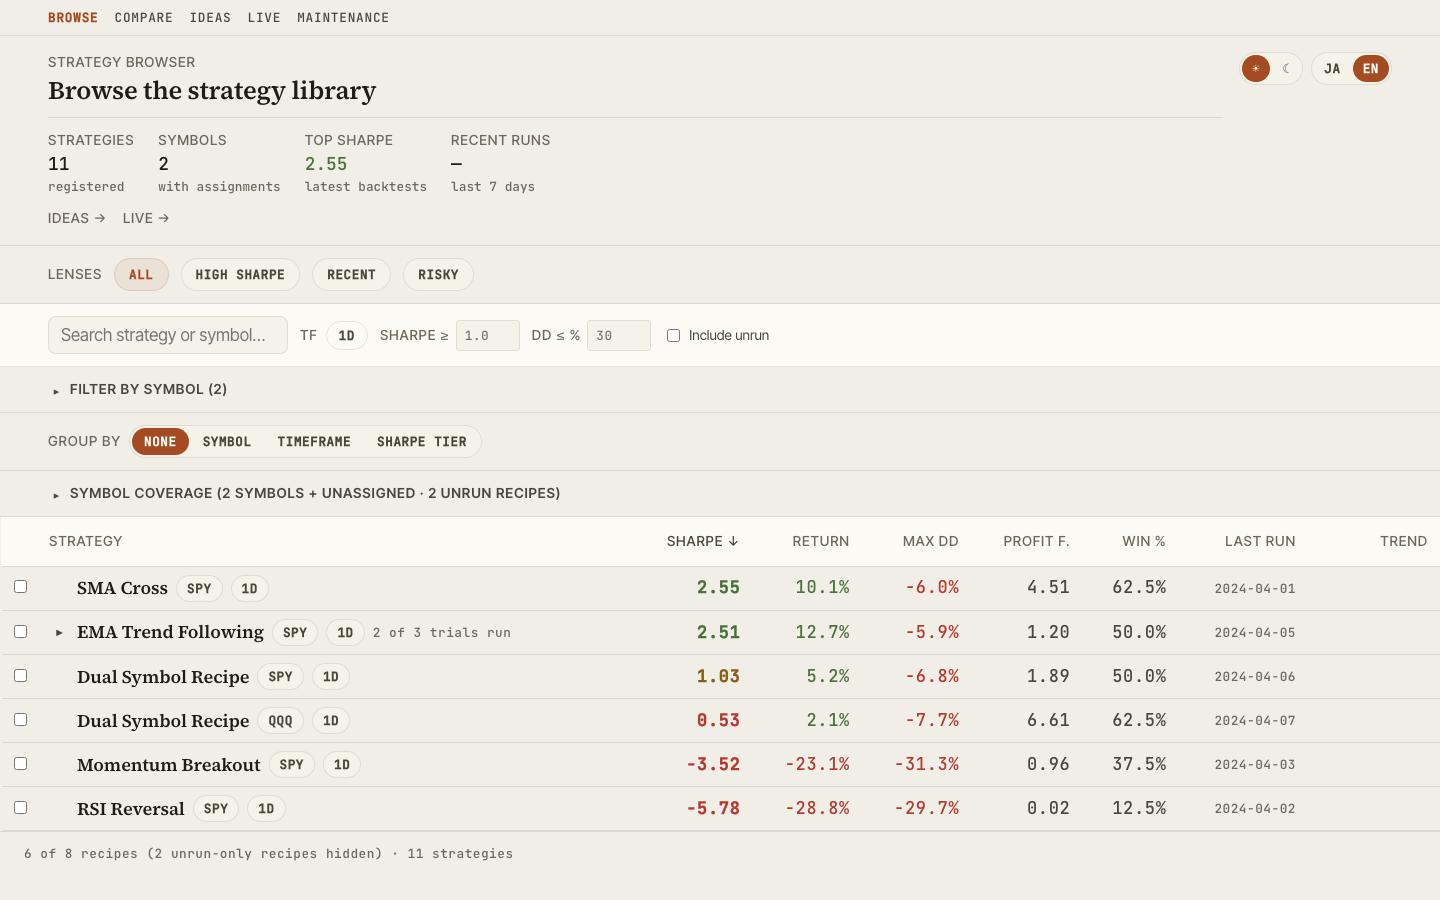
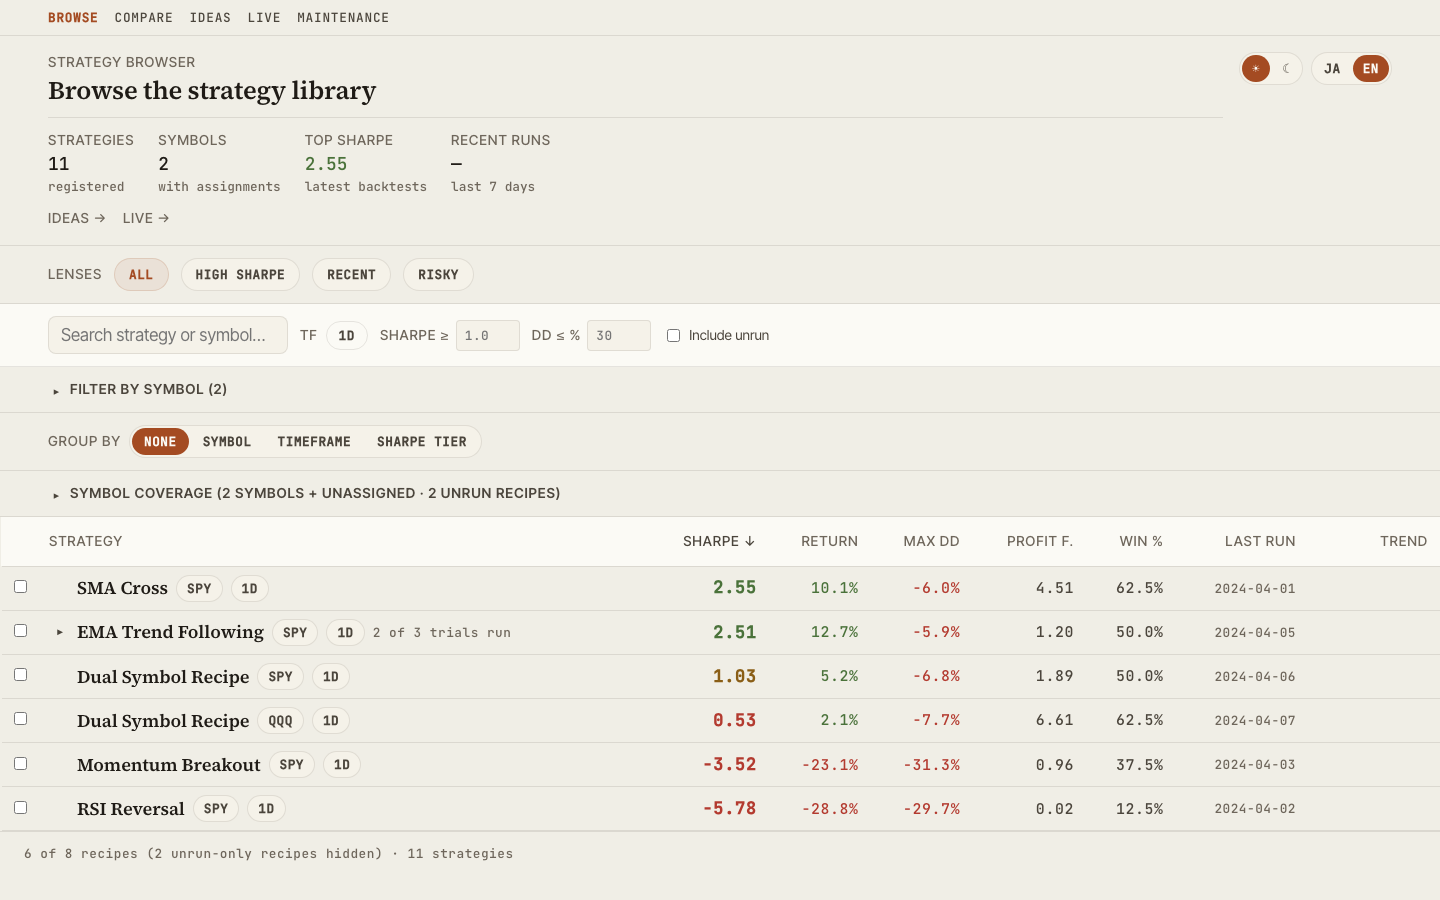
fix(design): 未定義のまま参照されていた CSS 変数 3 種を定義し、再発をテストで防ぐ
未定義の var() はエラーにならず、プロパティが「継承値、無ければ初期値」に
落ちるため、意図しない見た目が動いているように見えてしまう。

- --fs-mono-md: 0.875rem を定義（11 ファイルが参照・issue #342）
  body の 1rem を継承して 17px で描かれており、Sharpe 列に個別指定された
  1rem + bold の強調が効いていなかった。0.8125rem は --fs-mono-sm と 1px 差で
  スケールとして機能せず --fs-caption とも衝突するため 0.875rem を採る。
- --border-strong を定義（5 箇所が参照）
  border-color が初期値の currentColor に落ち、設計上のどのトークンよりも
  濃い線で描かれていた。新しい色を発明せず --border-h と同値にする。
- --text1 → --text（1 箇所の typo）
  color は継承するため偶然同色で描かれており気付けなかった。

あわせて design/__tests__/definedTokens.test.ts を追加し、src 全体の var()
参照がすべて定義済みであることを検証する。未定義を仕込むとファイル名付きで
落ちることを確認済み。ハードコード色を締め出す noHardcodedColors.test.ts と
対になり、こちらは「トークンを参照しているつもりで参照できていない」側を捕まえる。

行高への影響は無し（44px のまま）。実データで確認済みで、これは #334 で
white-space: nowrap により解決済みのため。

Closes #342

diff --git a/frontend/src/design/__tests__/definedTokens.test.ts b/frontend/src/design/__tests__/definedTokens.test.ts
@@ -1,0 +1,93 @@
+import { readdirSync, readFileSync } from 'node:fs'
+import { dirname, resolve } from 'node:path'
+import { fileURLToPath } from 'node:url'
+import { describe, it, expect } from 'vitest'
+
+/**
+ * issue #342: 未定義の CSS カスタムプロパティを参照する回帰を防ぐ。
+ *
+ * 未定義の var() はエラーにならず静かに壊れる。プロパティは「継承値、無ければ
+ * 初期値」に落ちるため、意図しない見た目が「たまたま動いているように見える」。
+ * 実際に 3 種が長期間放置されていた。
+ *
+ *   --fs-mono-md   11 ファイルが参照。body の 1rem を継承して 17px で描画され、
+ *                  Sharpe 列に個別指定された 1rem + bold の強調が効いていなかった
+ *   --border-strong 5 箇所が参照。border-color が初期値の currentColor に落ち、
+ *                  設計上のどのトークンより濃い線で描かれていた
+ *   --text1        --text の typo。color は継承するため偶然同色で、気付けなかった
+ *
+ * ハードコード色を締め出す noHardcodedColors.test.ts と対になる関係で、
+ * こちらは「トークンを参照しているつもりで参照できていない」側を捕まえる。
+ */
+const HERE = dirname(fileURLToPath(import.meta.url))
+const SRC = resolve(HERE, '../..')
+const TOKENS = resolve(SRC, 'design/tokens.css')
+
+/** tokens.css / a11y.css で定義済みのカスタムプロパティ名を集める。 */
+function definedProperties(): Set<string> {
+  const names = new Set<string>()
+  for (const file of [TOKENS, resolve(SRC, 'design/a11y.css')]) {
+    const text = readFileSync(file, 'utf-8')
+    for (const m of text.matchAll(/^\s*(--[\w-]+)\s*:/gm)) names.add(m[1]!)
+  }
+  return names
+}
+
+function listSourceFiles(): string[] {
+  return readdirSync(SRC, { recursive: true, encoding: 'utf-8' })
+    .filter((p) => /\.(ts|tsx|css)$/.test(p))
+    .filter((p) => !p.includes('__tests__'))
+    .map((p) => resolve(SRC, p))
+}
+
+/**
+ * `var(--x)` の参照を拾う。テンプレートリテラルでの動的組み立て
+ * （`var(--cols-${key})`）とコメント中の `var(--cols-*)` のような例示は
+ * 静的に解決できないので、識別子が `${` か `*` で終わるものは対象外にする。
+ */
+function referencedProperties(text: string): string[] {
+  return [...text.matchAll(/var\(\s*(--[\w-]+)([^)]*)\)/g)]
+    .filter((m) => !m[2]!.trimStart().startsWith('$') && !m[2]!.trimStart().startsWith('*'))
+    .map((m) => m[1]!)
+}
+
+describe('CSS カスタムプロパティは必ず定義済み (issue #342)', () => {
+  it('src 全体の var() 参照がすべて tokens.css / a11y.css で定義されている', () => {
+    const defined = definedProperties()
+    const offenders: string[] = []
+    for (const file of listSourceFiles()) {
+      const text = readFileSync(file, 'utf-8')
+      for (const name of referencedProperties(text)) {
+        // var(--x, fallback) のようにフォールバック付きなら未定義でも意図的とみなす
+        if (!defined.has(name)) offenders.push(`${file.replace(SRC, 'src')}: var(${name})`)
+      }
+    }
+    expect(offenders).toEqual([])
+  })
+
+  it('放置されていた 3 種が実際に定義されている', () => {
+    const defined = definedProperties()
+    // 個別に固定しておく。上の網羅テストは「参照が消えた」場合も緑になるため、
+    // トークン自体が失われたことを検知できない。
+    expect(defined.has('--fs-mono-md')).toBe(true)
+    expect(defined.has('--border-strong')).toBe(true)
+    expect(defined.has('--text')).toBe(true)
+  })
+
+  it('--fs-mono-md は --fs-mono-sm より大きく 1rem 未満', () => {
+    // スケールとして機能する位置にあることを固定する。sm と 1px 差では
+    // 区別が付かず、1rem 以上では Sharpe 列の強調（1rem + bold）が死ぬ。
+    const text = readFileSync(TOKENS, 'utf-8')
+    const rem = (name: string): number => {
+      const m = text.match(new RegExp(`^\\s*${name}:\\s*([\\d.]+)rem`, 'm'))
+      if (!m) throw new Error(`${name} が rem 指定で見つからない`)
+      return Number(m[1])
+    }
+    const sm = rem('--fs-mono-sm')
+    const md = rem('--fs-mono-md')
+    expect(md).toBeGreaterThan(sm)
+    expect(md).toBeLessThan(1)
+    // sm との差が 0.0625rem（1px 相当）しかないと実質同じサイズになる
+    expect(md - sm).toBeGreaterThan(0.0625)
+  })
+})

diff --git a/frontend/src/design/tokens.css b/frontend/src/design/tokens.css
@@ -49,6 +49,12 @@
   --fs-body: 1rem;
   --fs-caption: 0.8125rem;
   --fs-mono-sm: 0.75rem;
+  /* 表のセルなど mono の既定サイズ（issue #342）。定義が無いまま 11 ファイルが
+   * 参照しており、body の 1rem を継承して 17px で描かれていた。sm (0.75rem) と
+   * 1rem の中間に置くことで、Sharpe 列に個別指定されている 1rem + bold が
+   * 主要指標として初めて効くようになる。0.8125rem は sm と 1px しか離れず
+   * スケールとして機能しないため採らない（--fs-caption とも値が衝突する）。 */
+  --fs-mono-md: 0.875rem;
 
   /* Line heights */
   --lh-tight: 1.05;
@@ -70,6 +76,11 @@
   --surface-2: #F5F2E9;
   --border: rgba(40, 28, 18, 0.10);
   --border-h: rgba(40, 28, 18, 0.20);
+  /* 表ヘッダ・合計行など「既定より強い」区切り線（issue #342）。未定義のまま
+   * 5 箇所が参照しており、無効な var() のため border-color が初期値の
+   * currentColor に落ちて文字色の濃い線で描かれていた。新しい色を発明せず
+   * --border-h と同値にして、既存の意匠の範囲に収める。 */
+  --border-strong: rgba(40, 28, 18, 0.20);
   --text: #1F1B16;
   --text2: #4B453C;
   --text3: #6E665B;
@@ -96,6 +107,7 @@ html[data-variation="lab"] {
   --surface-2: #2A2536;
   --border: rgba(245, 240, 230, 0.08);
   --border-h: rgba(245, 240, 230, 0.16);
+  --border-strong: rgba(245, 240, 230, 0.16);
   --text: #F1ECE0;
   --text2: #C1B9A8;
   --text3: #8E8675;

diff --git a/frontend/src/components/metrics/CarryAdjustedCard.tsx b/frontend/src/components/metrics/CarryAdjustedCard.tsx
@@ -76,7 +76,7 @@ export function CarryAdjustedCard({ carry, lang }: Props) {
                 fontSize: 'var(--fs-mono-md)',
                 fontWeight: 700,
                 letterSpacing: 'var(--tracking-mono)',
-                color: 'var(--text1)',
+                color: 'var(--text)',
               }}
             >
               {value}
